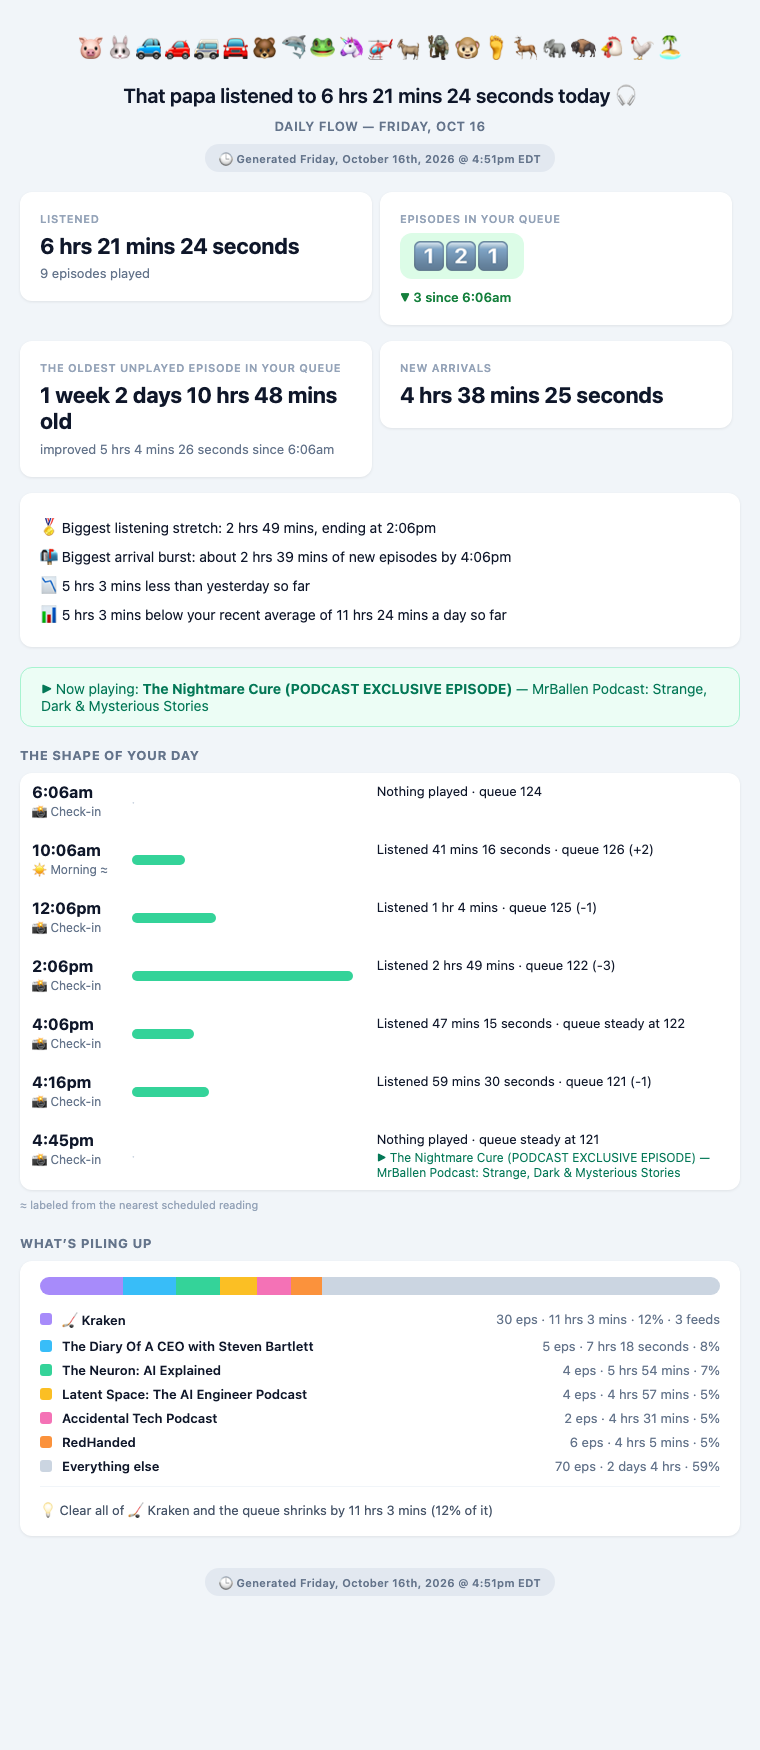
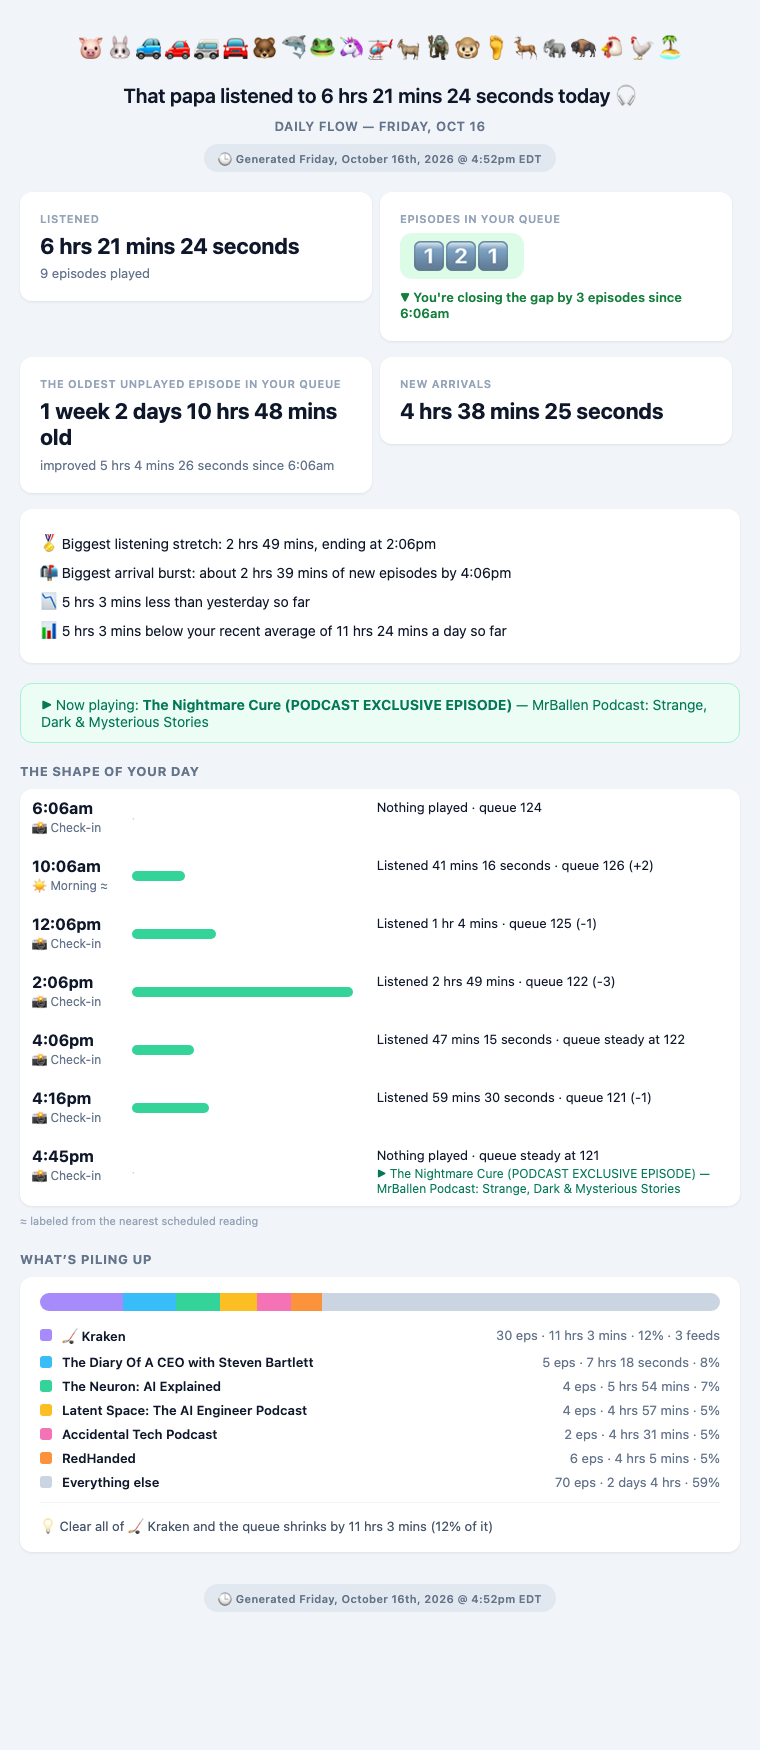
Flow web report: friendlier line under the queue count

diff --git a/tests/test_flow.py b/tests/test_flow.py
@@ -304,11 +304,11 @@ class StoryTests(unittest.TestCase):
             return flow.queue_card(snap("2026-10-16T09:00", queue_count=start),
                                    snap("2026-10-16T18:00", queue_count=end), NY)
         self.assertIn("#dcfce7", card(124, 121))
-        self.assertIn("▼ 3 since 9:00am", card(124, 121))
+        self.assertIn("▼ You're closing the gap by 3 episodes since 9:00am", card(124, 121))
         self.assertIn("#fef9c3", card(121, 121))
-        self.assertIn("same as at 9:00am", card(121, 121))
+        self.assertIn("Holding steady since 9:00am", card(121, 121))
         self.assertIn("#fee2e2", card(121, 124))
-        self.assertIn("▲ 3 since 9:00am", card(121, 124))
+        self.assertIn("▲ The gap is growing by 3 episodes since 9:00am", card(121, 124))
 
     def test_labels_have_names_and_approximate_ones_are_marked(self):
         self.assertEqual(flow.label_name({"label": "dash-end"}), "🏁 Dash end")

diff --git a/flow.py b/flow.py
@@ -588,9 +588,11 @@ def queue_card(qs, qe, tz=None):
     bg, fg, arrow = QUEUE_TONES[tone]
     delta = qe["queue_count"] - qs["queue_count"]
     since = f"since {clock(qs, tz)}"
-    sub = {"better": f"{arrow} {abs(delta)} {since}",
-           "same": f"{arrow} same as at {clock(qs, tz)}",
-           "worse": f"{arrow} {delta} {since}"}[tone]
+    n = abs(delta)
+    noun = f"{n} episode" + ("" if n == 1 else "s")
+    sub = {"better": f"{arrow} You're closing the gap by {noun} {since}",
+           "same": f"{arrow} Holding steady {since}",
+           "worse": f"{arrow} The gap is growing by {noun} {since}"}[tone]
     value_html = (f'<span style="display:inline-block;background:{bg};border-radius:12px;'
                   f'padding:6px 14px;font-size:30px;line-height:1.15;letter-spacing:2px;">'
                   f'{keycaps(qe["queue_count"])}</span>')
